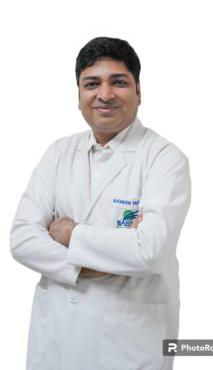
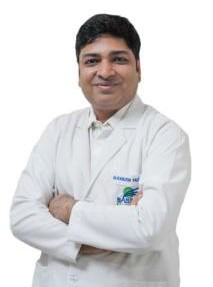
Use manually cropped profile image

Changed region(s): [[0.0282, 0.0279, 1.0, 1.0], [0.4225, 0.5854, 0.4789, 0.669], [0.7042, 0.4739, 0.7324, 0.5017]]

diff --git a/src/pages/Home.jsx b/src/pages/Home.jsx
@@ -80,13 +80,9 @@ const Home = () => {
                         <div className="md:w-1/3 flex justify-center md:justify-end">
                             <div className="relative rounded-[32px] md:rounded-[40px] overflow-hidden shadow-2xl bg-brand-light border-4 border-white w-full max-w-[280px] lg:max-w-[320px]">
                                 <img
-                                    src={`${import.meta.env.BASE_URL}images/dr_kamlesh_portrait.jpg`}
+                                    src={`${import.meta.env.BASE_URL}images/dr_kamlesh_cropped.jpg`}
                                     alt="Dr. Kamlesh Talesra"
                                     className="w-full h-auto object-cover"
-                                    onError={(e) => {
-                                        e.target.onerror = null;
-                                        e.target.src = `${import.meta.env.BASE_URL}images/dr_kamlesh_cropped.jpg`
-                                    }}
                                 />
                                 <div className="absolute bottom-0 left-0 right-0 bg-gradient-to-t from-brand-blue via-brand-blue/90 to-transparent p-4 md:p-6 text-white text-center">
                                     <h3 className="text-xl font-bold">Dr. Kamlesh Talesra</h3>

diff --git a/src/pages/AboutUs.jsx b/src/pages/AboutUs.jsx
@@ -31,13 +31,9 @@ const AboutUs = () => {
                     <div className="w-full md:w-2/5 bg-brand-light p-8 flex items-center justify-center relative">
                         <div className="absolute top-0 right-0 w-32 h-32 bg-brand-teal/10 rounded-full blur-3xl"></div>
                         <img
-                            src={`${import.meta.env.BASE_URL}images/dr_kamlesh_portrait.jpg`}
+                            src={`${import.meta.env.BASE_URL}images/dr_kamlesh_cropped.jpg`}
                             alt="Dr. Kamlesh Talesra Portrait"
                             className="w-full max-w-sm rounded-[40px] shadow-2xl relative z-10 border-4 border-white object-cover"
-                            onError={(e) => {
-                                e.target.onerror = null;
-                                e.target.src = `${import.meta.env.BASE_URL}images/dr_kamlesh_cropped.jpg`
-                            }}
                         />
                     </div>
 
